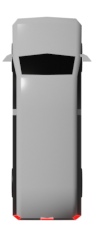
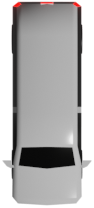
fix +/- to +/+ for x/y updates

diff --git a/car.js b/car.js
@@ -15,7 +15,7 @@ class Car {
         this.maxSpeed = maxSpeed;
         this.minSpeed = -this.maxSpeed * 0.5;
         this.friction = 0.05;
-        this.angle = 0;
+        this.angle = Math.PI;
         this.gear = "N";
         this.damaged = false;
     }
@@ -45,7 +45,7 @@ class Car {
         }
 
         ctx.translate(this.x, this.y);
-        ctx.rotate(this.angle);
+        ctx.rotate(-this.angle);
         ctx.drawImage(this.image, -width * 0.5, -height * 0.5, width, height);
 
         ctx.restore();
@@ -101,10 +101,10 @@ class Car {
             const turnDelta = this.turnSpeed * reversing;
             let newAngle = 0;
             if (this.controls.right) {
-                newAngle += turnDelta;
+                newAngle -= turnDelta;
             }
             if (this.controls.left) {
-                newAngle -= turnDelta;
+                newAngle += turnDelta;
             }
             if (newAngle !== 0) {
                 this.angle = (this.angle + newAngle) % (Math.PI * 2.0);
@@ -113,7 +113,7 @@ class Car {
 
         // position update
         this.x += Math.sin(this.angle) * this.speed;
-        this.y -= Math.cos(this.angle) * this.speed; // y starts at top so subtract
+        this.y += Math.cos(this.angle) * this.speed;
     }
 
     #updateCollision(roadBorders) {
@@ -147,20 +147,20 @@ class Car {
         const a = Math.atan2(this.image.width, this.image.height);
         const rs = radius * this.scale * 0.9;
         corners.push({
-            x: this.x + Math.sin(-this.angle + a) * rs,
-            y: this.y + Math.cos(-this.angle + a) * rs
+            x: this.x + Math.sin(this.angle + a) * rs,
+            y: this.y + Math.cos(this.angle + a) * rs
         });
         corners.push({
-            x: this.x + Math.sin(-this.angle - a) * rs,
-            y: this.y + Math.cos(-this.angle - a) * rs
+            x: this.x + Math.sin(this.angle - a) * rs,
+            y: this.y + Math.cos(this.angle - a) * rs
         });
         corners.push({
-            x: this.x + Math.sin(-this.angle + a + Math.PI) * rs,
-            y: this.y + Math.cos(-this.angle + a + Math.PI) * rs
+            x: this.x + Math.sin(this.angle + a + Math.PI) * rs,
+            y: this.y + Math.cos(this.angle + a + Math.PI) * rs
         });
         corners.push({
-            x: this.x + Math.sin(-this.angle - a - Math.PI) * rs,
-            y: this.y + Math.cos(-this.angle - a - Math.PI) * rs
+            x: this.x + Math.sin(this.angle - a - Math.PI) * rs,
+            y: this.y + Math.cos(this.angle - a - Math.PI) * rs
         });
         return corners;
     }

diff --git a/sensor.js b/sensor.js
@@ -59,7 +59,7 @@ class Sensor {
         const start = {x: this.car.x, y: this.car.y};
         const end = {
             x: this.car.x + Math.sin(rayAngle) * this.rayLength,
-            y: this.car.y - Math.cos(rayAngle) * this.rayLength
+            y: this.car.y + Math.cos(rayAngle) * this.rayLength
         };
 
         return [start, end];
